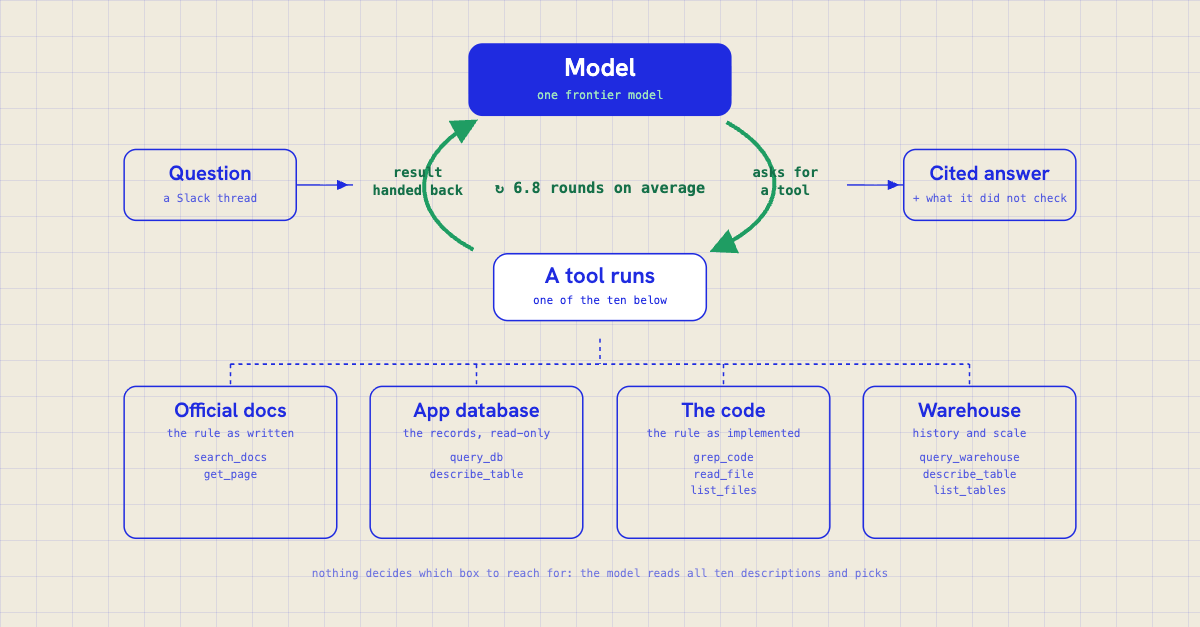
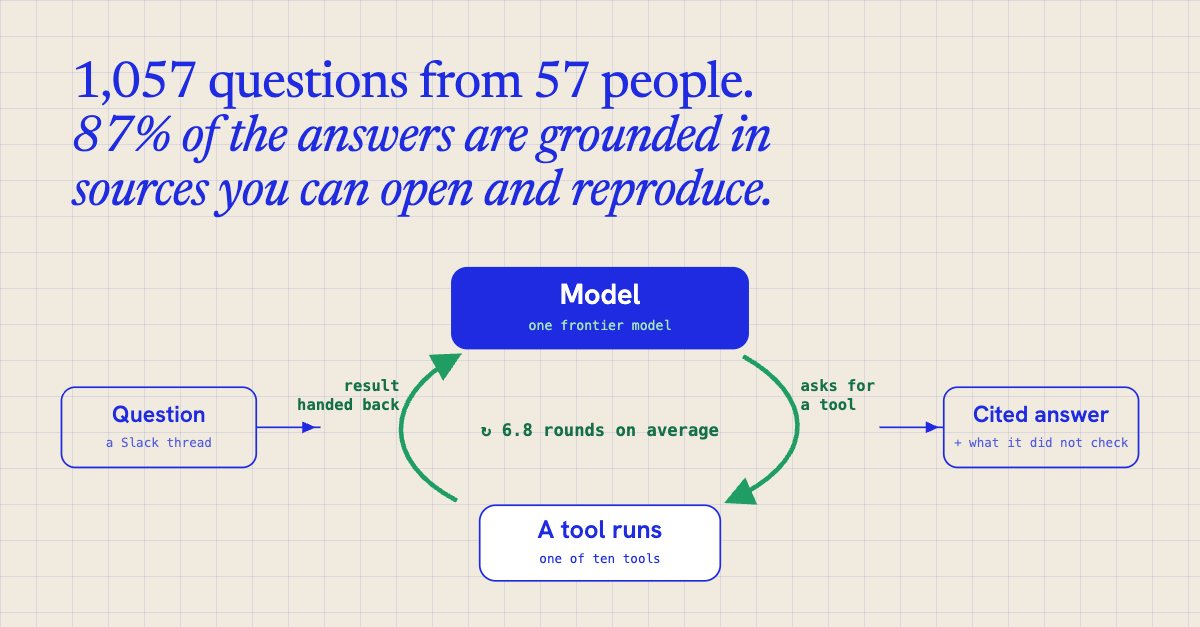
Link previews: use the loop with the usage numbers as the agent post's card
The whole Fig. 1 was unreadable at feed size. The card is now the loop alone,
drawn larger under the usage numbers, with the arc labels moved clear of the
arrows. Each card has its own source page in scripts/og/, which the script
screenshots, so the figure-extraction mode is gone.

Claude-Session: https://claude.ai/code/session_01HNHG2VEf3z1nNoaqKDDB6v

diff --git a/scripts/og/the-loop-is-free.html b/scripts/og/the-loop-is-free.html
@@ -1,0 +1,72 @@
+<!doctype html><meta charset="utf-8">
+<link rel="stylesheet" href="https://fonts.googleapis.com/css2?family=Newsreader:ital,opsz,wght@0,6..72,400;0,6..72,500;1,6..72,400;1,6..72,500&family=Hanken+Grotesk:wght@400;500;600&family=DM+Mono:wght@400;500&display=block">
+<style>
+html,body{margin:0;width:1200px;height:627px;overflow:hidden}
+body{background-color:#F0EBDE;background-image:linear-gradient(rgba(31,43,224,.10) 1px,transparent 1px),linear-gradient(90deg,rgba(31,43,224,.10) 1px,transparent 1px);background-size:36px 36px;color:#1F2BE0;font-family:"Hanken Grotesk",sans-serif;box-sizing:border-box}
+.serif{font-family:Newsreader,Georgia,serif}.mono{font-family:"DM Mono",monospace}
+em{font-style:italic}
+</style>
+<div style="position:absolute;left:72px;top:58px;right:72px">
+ <div class="serif" style="font-size:50px;line-height:1.08;font-weight:400;letter-spacing:-.01em">1,057 questions from 57 people.<br><em>87% of the answers are grounded in<br>sources you can open and reproduce.</em></div>
+</div>
+<div style="position:absolute;left:50px;right:50px;bottom:34px"><svg style="width:100%;height:auto;display:block" viewBox="0 0 960 298" role="img" aria-label="A question from a Slack thread enters the agent loop: the model asks for a tool, the tool runs, the result is handed back, 6.8 rounds on average. Out comes a cited answer plus what it did not check. Below, the four sources the ten tools reach: the official documentation, the application database, the source code, and the data warehouse.">
+  <g fill="none" stroke="currentColor" stroke-width="1.5">
+    <rect x="10" y="118" width="170" height="70" rx="12"/>
+    <rect x="780" y="118" width="170" height="70" rx="12"/>
+  </g>
+  <text x="95" y="148" text-anchor="middle" font-family="inherit" font-size="20" font-weight="600" fill="currentColor">Question</text>
+  <text x="95" y="170" text-anchor="middle" font-family="ui-monospace, SFMono-Regular, Menlo, monospace" font-size="11" fill="currentColor" opacity="0.75">a Slack thread</text>
+  <text x="865" y="148" text-anchor="middle" font-family="inherit" font-size="20" font-weight="600" fill="currentColor">Cited answer</text>
+  <text x="865" y="170" text-anchor="middle" font-family="ui-monospace, SFMono-Regular, Menlo, monospace" font-size="11" fill="currentColor" opacity="0.75">+ what it did not check</text>
+  <g fill="none" stroke="currentColor" stroke-width="1.5">
+    <path d="M180 153 H236"/><path d="M230 153 l-9 -4 v8 z" fill="currentColor"/>
+    <path d="M724 153 H780"/><path d="M774 153 l-9 -4 v8 z" fill="currentColor"/>
+  </g>
+  <svg overflow="visible" x="245" y="5" width="470" height="296" viewBox="0 0 470 296">
+
+        <defs>
+          <marker id="f1-cy-ah" viewBox="0 0 10 10" refX="8" refY="5" markerWidth="6.5" markerHeight="6.5" orient="auto">
+            <path d="M0 0 L10 5 L0 10 z" fill="#1F9D63"/>
+          </marker>
+        </defs>
+        <rect x="105" y="8" width="260" height="72" rx="14" fill="currentColor"/>
+        <text x="235" y="40" text-anchor="middle" font-family="inherit" font-size="25" font-weight="600" fill="#fff">Model</text>
+        <text x="235" y="63" text-anchor="middle" font-family="ui-monospace, SFMono-Regular, Menlo, monospace" font-size="11.5" fill="#9FE3BF">one frontier model</text>
+        <rect x="130" y="216" width="210" height="66" rx="14" fill="#fff" stroke="currentColor" stroke-width="1.5"/>
+        <text x="235" y="245" text-anchor="middle" font-family="inherit" font-size="22" font-weight="600" fill="currentColor">A tool runs</text>
+        <text x="235" y="266" text-anchor="middle" font-family="ui-monospace, SFMono-Regular, Menlo, monospace" font-size="11" fill="currentColor">one of ten tools</text>
+        <path d="M 360 86 C 425 122, 425 178, 348 212" fill="none" stroke="#1F9D63" stroke-width="4" marker-end="url(#f1-cy-ah)"/>
+        <path d="M 110 212 C 45 178, 45 122, 110 86" fill="none" stroke="#1F9D63" stroke-width="4" marker-end="url(#f1-cy-ah)"/>
+        <text x="410" y="116" text-anchor="start" font-family="ui-monospace, SFMono-Regular, Menlo, monospace" font-size="13.5" font-weight="700" fill="#157049">asks for</text>
+        <text x="410" y="133" text-anchor="start" font-family="ui-monospace, SFMono-Regular, Menlo, monospace" font-size="13.5" font-weight="700" fill="#157049">a tool</text>
+        <text x="60" y="116" text-anchor="end" font-family="ui-monospace, SFMono-Regular, Menlo, monospace" font-size="13.5" font-weight="700" fill="#157049">result</text>
+        <text x="60" y="133" text-anchor="end" font-family="ui-monospace, SFMono-Regular, Menlo, monospace" font-size="13.5" font-weight="700" fill="#157049">handed back</text>
+        <text x="235" y="156" text-anchor="middle" font-family="ui-monospace, SFMono-Regular, Menlo, monospace" font-size="15" font-weight="700" fill="#157049">&#8635; 6.8 rounds on average</text>
+      
+  </svg>
+  <path d="M480 305 V330" fill="none" stroke="currentColor" stroke-width="1.5" stroke-dasharray="4 4"/>
+  <path d="M115 330 H845 M115 330 V352 M358 330 V352 M602 330 V352 M845 330 V352" fill="none" stroke="currentColor" stroke-width="1.5" stroke-dasharray="4 4"/>
+<rect x="10" y="352" width="210" height="150" rx="12" fill="none" stroke="currentColor" stroke-width="1.5"/>
+<text x="115.0" y="382" text-anchor="middle" font-family="inherit" font-size="20" font-weight="600" fill="currentColor">Official docs</text>
+<text x="115.0" y="402" text-anchor="middle" font-family="ui-monospace, SFMono-Regular, Menlo, monospace" font-size="11" fill="currentColor" opacity="0.75">the rule as written</text>
+<text x="115.0" y="426" text-anchor="middle" font-family="ui-monospace, SFMono-Regular, Menlo, monospace" font-size="11" fill="currentColor" opacity="0.75">search_docs</text>
+<text x="115.0" y="442" text-anchor="middle" font-family="ui-monospace, SFMono-Regular, Menlo, monospace" font-size="11" fill="currentColor" opacity="0.75">get_page</text>
+<rect x="253" y="352" width="210" height="150" rx="12" fill="none" stroke="currentColor" stroke-width="1.5"/>
+<text x="358.0" y="382" text-anchor="middle" font-family="inherit" font-size="20" font-weight="600" fill="currentColor">App database</text>
+<text x="358.0" y="402" text-anchor="middle" font-family="ui-monospace, SFMono-Regular, Menlo, monospace" font-size="11" fill="currentColor" opacity="0.75">the records, read-only</text>
+<text x="358.0" y="426" text-anchor="middle" font-family="ui-monospace, SFMono-Regular, Menlo, monospace" font-size="11" fill="currentColor" opacity="0.75">query_db</text>
+<text x="358.0" y="442" text-anchor="middle" font-family="ui-monospace, SFMono-Regular, Menlo, monospace" font-size="11" fill="currentColor" opacity="0.75">describe_table</text>
+<rect x="497" y="352" width="210" height="150" rx="12" fill="none" stroke="currentColor" stroke-width="1.5"/>
+<text x="602.0" y="382" text-anchor="middle" font-family="inherit" font-size="20" font-weight="600" fill="currentColor">The code</text>
+<text x="602.0" y="402" text-anchor="middle" font-family="ui-monospace, SFMono-Regular, Menlo, monospace" font-size="11" fill="currentColor" opacity="0.75">the rule as implemented</text>
+<text x="602.0" y="426" text-anchor="middle" font-family="ui-monospace, SFMono-Regular, Menlo, monospace" font-size="11" fill="currentColor" opacity="0.75">grep_code</text>
+<text x="602.0" y="442" text-anchor="middle" font-family="ui-monospace, SFMono-Regular, Menlo, monospace" font-size="11" fill="currentColor" opacity="0.75">read_file</text>
+<text x="602.0" y="458" text-anchor="middle" font-family="ui-monospace, SFMono-Regular, Menlo, monospace" font-size="11" fill="currentColor" opacity="0.75">list_files</text>
+<rect x="740" y="352" width="210" height="150" rx="12" fill="none" stroke="currentColor" stroke-width="1.5"/>
+<text x="845.0" y="382" text-anchor="middle" font-family="inherit" font-size="20" font-weight="600" fill="currentColor">Warehouse</text>
+<text x="845.0" y="402" text-anchor="middle" font-family="ui-monospace, SFMono-Regular, Menlo, monospace" font-size="11" fill="currentColor" opacity="0.75">history and scale</text>
+<text x="845.0" y="426" text-anchor="middle" font-family="ui-monospace, SFMono-Regular, Menlo, monospace" font-size="11" fill="currentColor" opacity="0.75">query_warehouse</text>
+<text x="845.0" y="442" text-anchor="middle" font-family="ui-monospace, SFMono-Regular, Menlo, monospace" font-size="11" fill="currentColor" opacity="0.75">describe_table</text>
+<text x="845.0" y="458" text-anchor="middle" font-family="ui-monospace, SFMono-Regular, Menlo, monospace" font-size="11" fill="currentColor" opacity="0.75">list_tables</text>
+  <text x="480" y="540" text-anchor="middle" font-family="ui-monospace, SFMono-Regular, Menlo, monospace" font-size="11" fill="currentColor" opacity="0.6">nothing decides which box to reach for: the model reads all ten descriptions and picks</text>
+</svg></div>

diff --git a/scripts/og-image.py b/scripts/og-image.py
@@ -1,66 +1,32 @@
-"""Render one of a post's diagrams as its link-preview image.
+"""Render a post's link-preview image.
 
 LinkedIn, Slack and X fetch og:image when a post URL is shared. They do not
-render SVG, and LinkedIn crops to 1.91:1, so the image is a 1200x627 PNG of the
-chosen diagram on the site's paper, drawn by headless Chrome.
+render SVG, and LinkedIn crops to 1.91:1, so each post that wants a large card
+gets a 1200x627 source page in scripts/og/<post-file-stem>.html, usually a
+post figure plus a headline on the site's paper, and headless Chrome draws it.
 
-    python3 scripts/og-image.py <post-file-stem> <figure-number>
+    python3 scripts/og-image.py <post-file-stem>
 
 writes static/og/<stem>.png; set `image = "og/<stem>.png"` in the post's front
 matter so the head partial emits it.
 """
 
-import re
 import subprocess
 import sys
-import tempfile
 from pathlib import Path
 
 CHROME = "/Applications/Google Chrome.app/Contents/MacOS/Google Chrome"
-WIDTH, HEIGHT = 1200, 627
 ROOT = Path(__file__).resolve().parent.parent
-
-PAGE = """<!doctype html>
-<meta charset="utf-8">
-<link rel="stylesheet" href="https://fonts.googleapis.com/css2?family=Hanken+Grotesk:wght@400;500;600&family=DM+Mono:wght@400;500&display=block">
-<style>
-  html, body {{ margin: 0; width: {w}px; height: {h}px; overflow: hidden; }}
-  body {{
-    background-color: #F0EBDE;
-    background-image:
-      linear-gradient(rgba(31, 43, 224, 0.10) 1px, transparent 1px),
-      linear-gradient(90deg, rgba(31, 43, 224, 0.10) 1px, transparent 1px);
-    background-size: 36px 36px;
-    color: #1F2BE0;
-    font-family: "Hanken Grotesk", -apple-system, sans-serif;
-    display: flex; align-items: center; justify-content: center;
-  }}
-  body > svg {{ width: {sw:.0f}px; height: {sh:.0f}px; }}
-</style>
-{svg}
-"""
-
-
-def diagram_svg(post: Path, number: int) -> str:
-    blocks = re.findall(r"\{\{< diagram[^>]*>\}\}(.*?)\{\{< /diagram >\}\}", post.read_text(), re.S)
-    if not 1 <= number <= len(blocks):
-        sys.exit(f"{post.name} has {len(blocks)} diagrams; asked for {number}")
-    return blocks[number - 1].strip()
 
 
 def main() -> None:
-    stem, number = sys.argv[1], int(sys.argv[2])
-    svg = diagram_svg(ROOT / "content" / "posts" / f"{stem}.md", number)
+    stem = sys.argv[1]
+    page = ROOT / "scripts" / "og" / f"{stem}.html"
     out = ROOT / "static" / "og" / f"{stem}.png"
     out.parent.mkdir(exist_ok=True)
-    vw, vh = map(float, re.search(r'viewBox="0 0 ([\d.]+) ([\d.]+)"', svg).groups())
-    scale = min((WIDTH - 100) / vw, (HEIGHT - 60) / vh)
-    html = PAGE.format(w=WIDTH, h=HEIGHT, sw=vw * scale, sh=vh * scale, svg=svg)
-    with tempfile.NamedTemporaryFile("w", suffix=".html", delete=False) as page:
-        page.write(html)
     subprocess.run(
-        [CHROME, "--headless=new", "--hide-scrollbars", "--virtual-time-budget=3000",
-         f"--window-size={WIDTH},{HEIGHT}", f"--screenshot={out}", f"file://{page.name}"],
+        [CHROME, "--headless=new", "--hide-scrollbars", "--virtual-time-budget=4000",
+         "--window-size=1200,627", f"--screenshot={out}", page.as_uri()],
         check=True, capture_output=True,
     )
     sys.stdout.write(f"{out.relative_to(ROOT)}\n")
